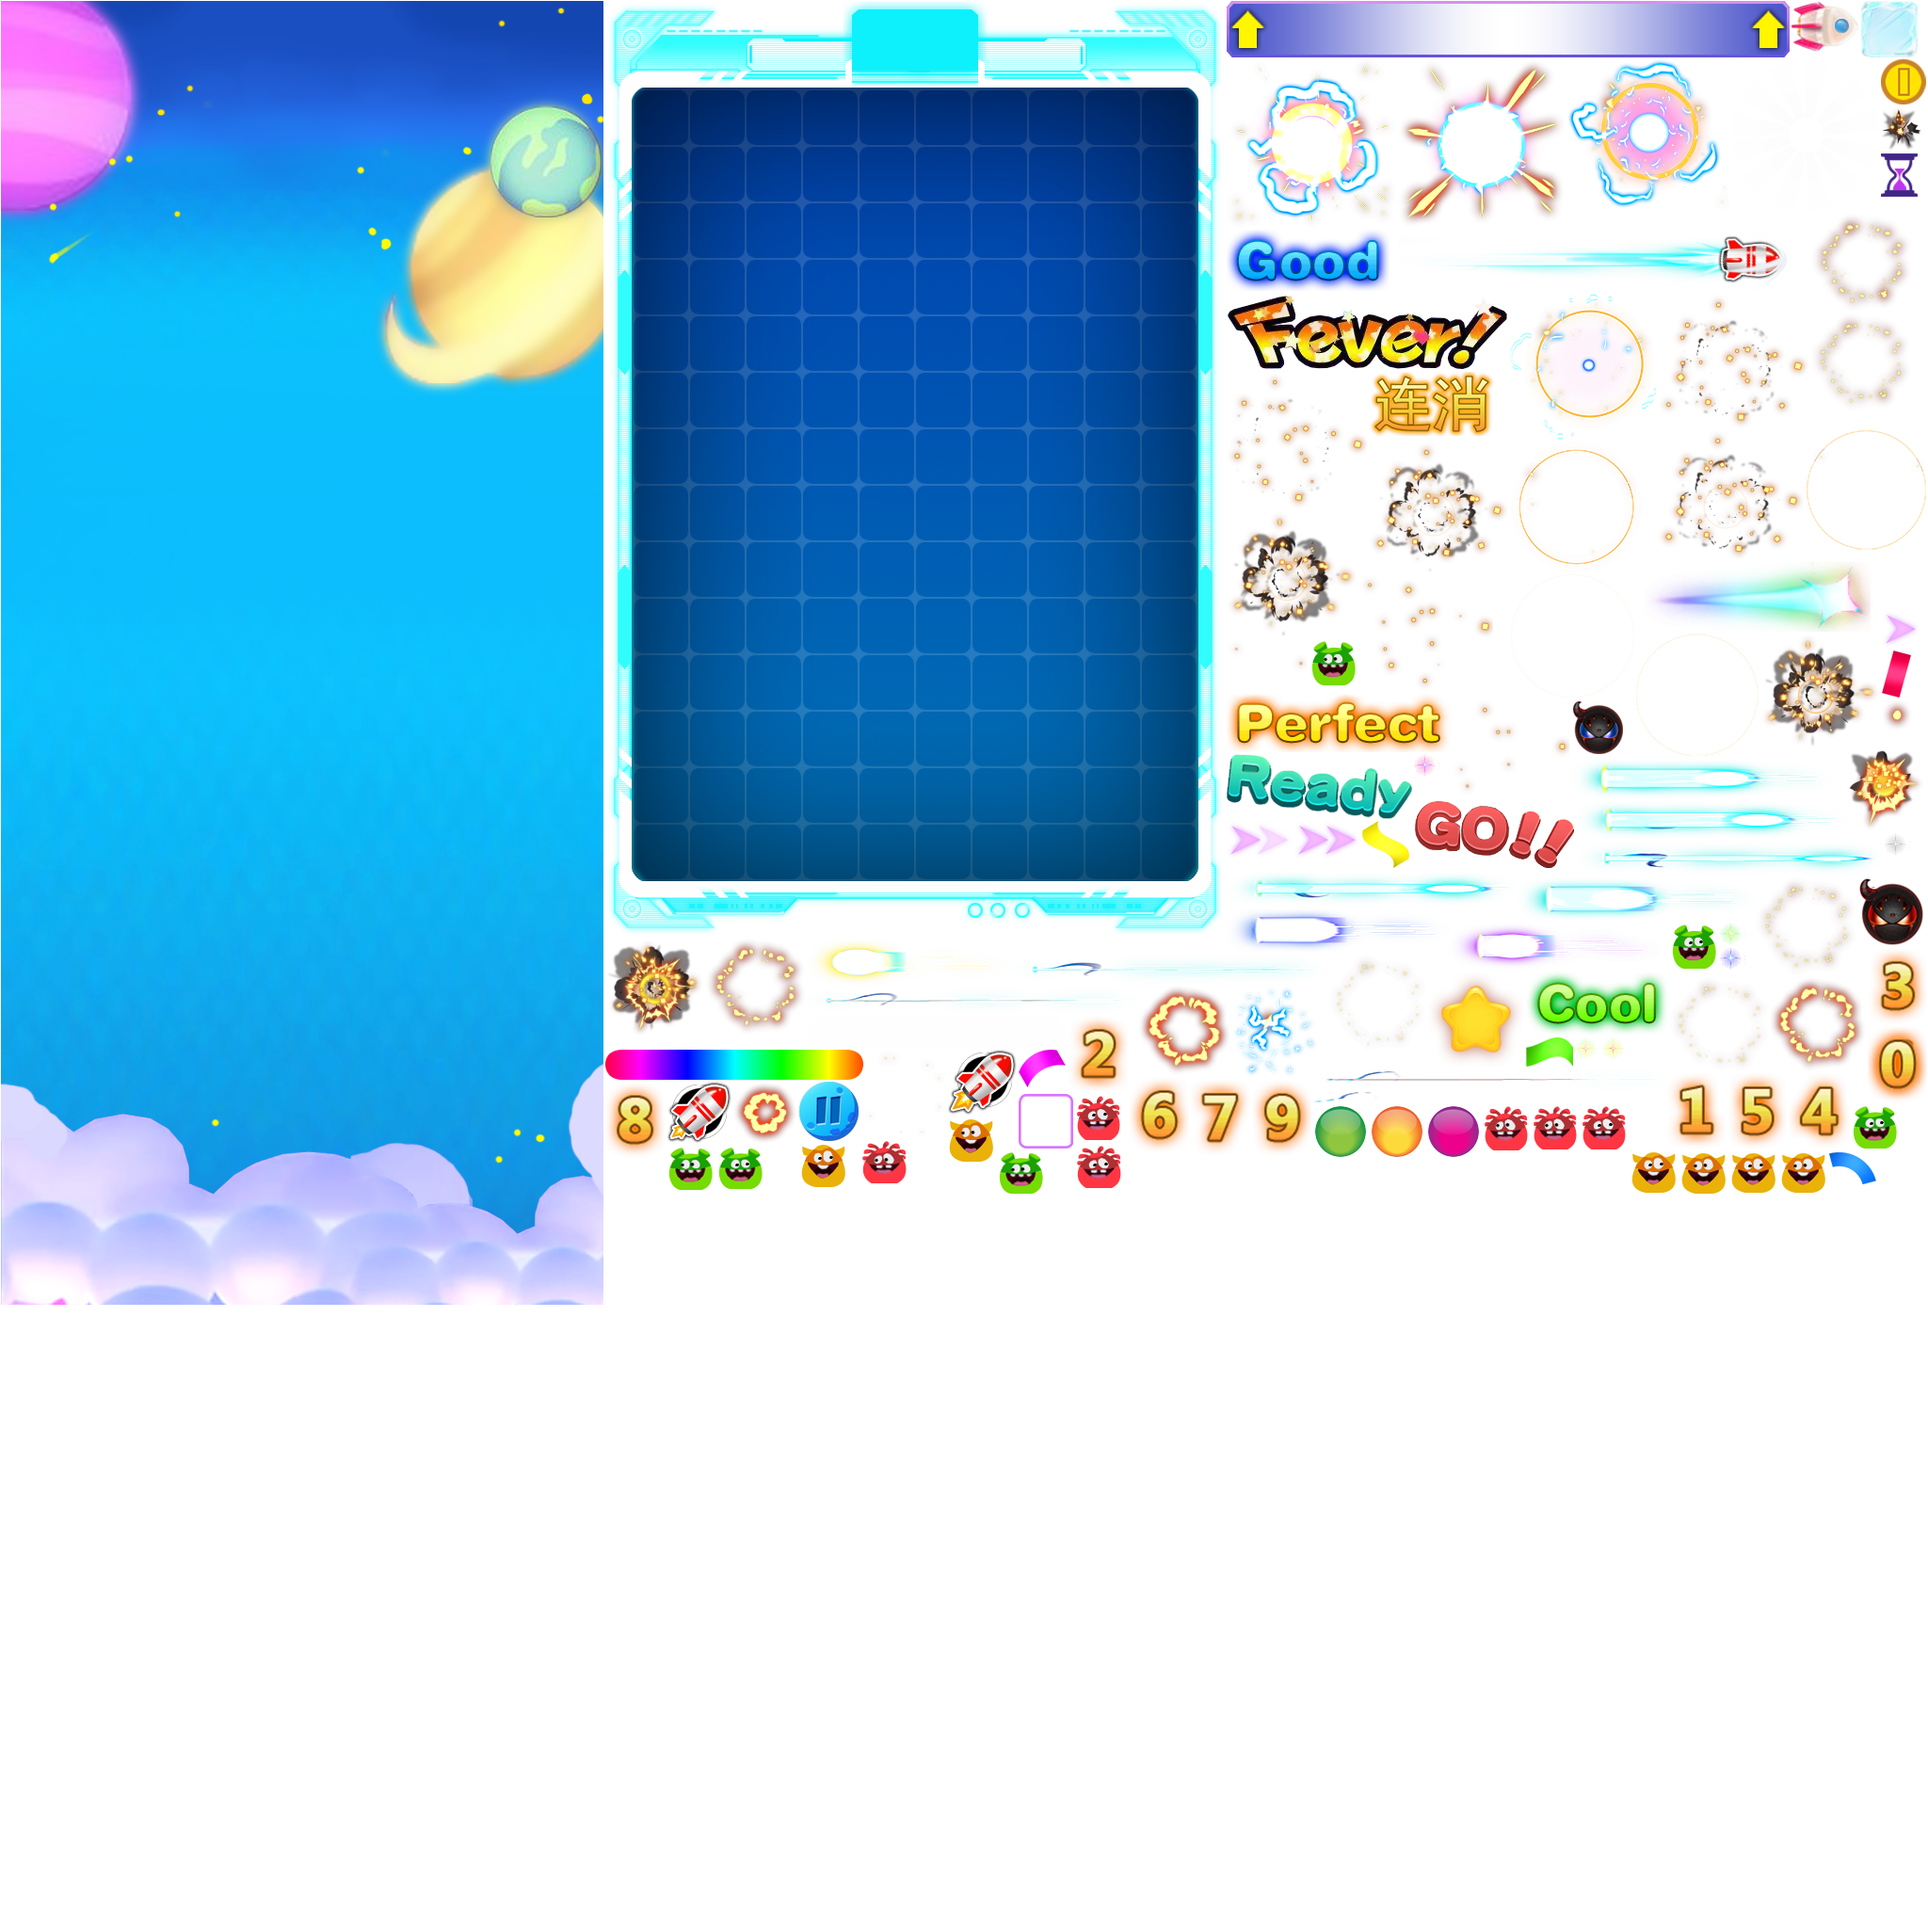
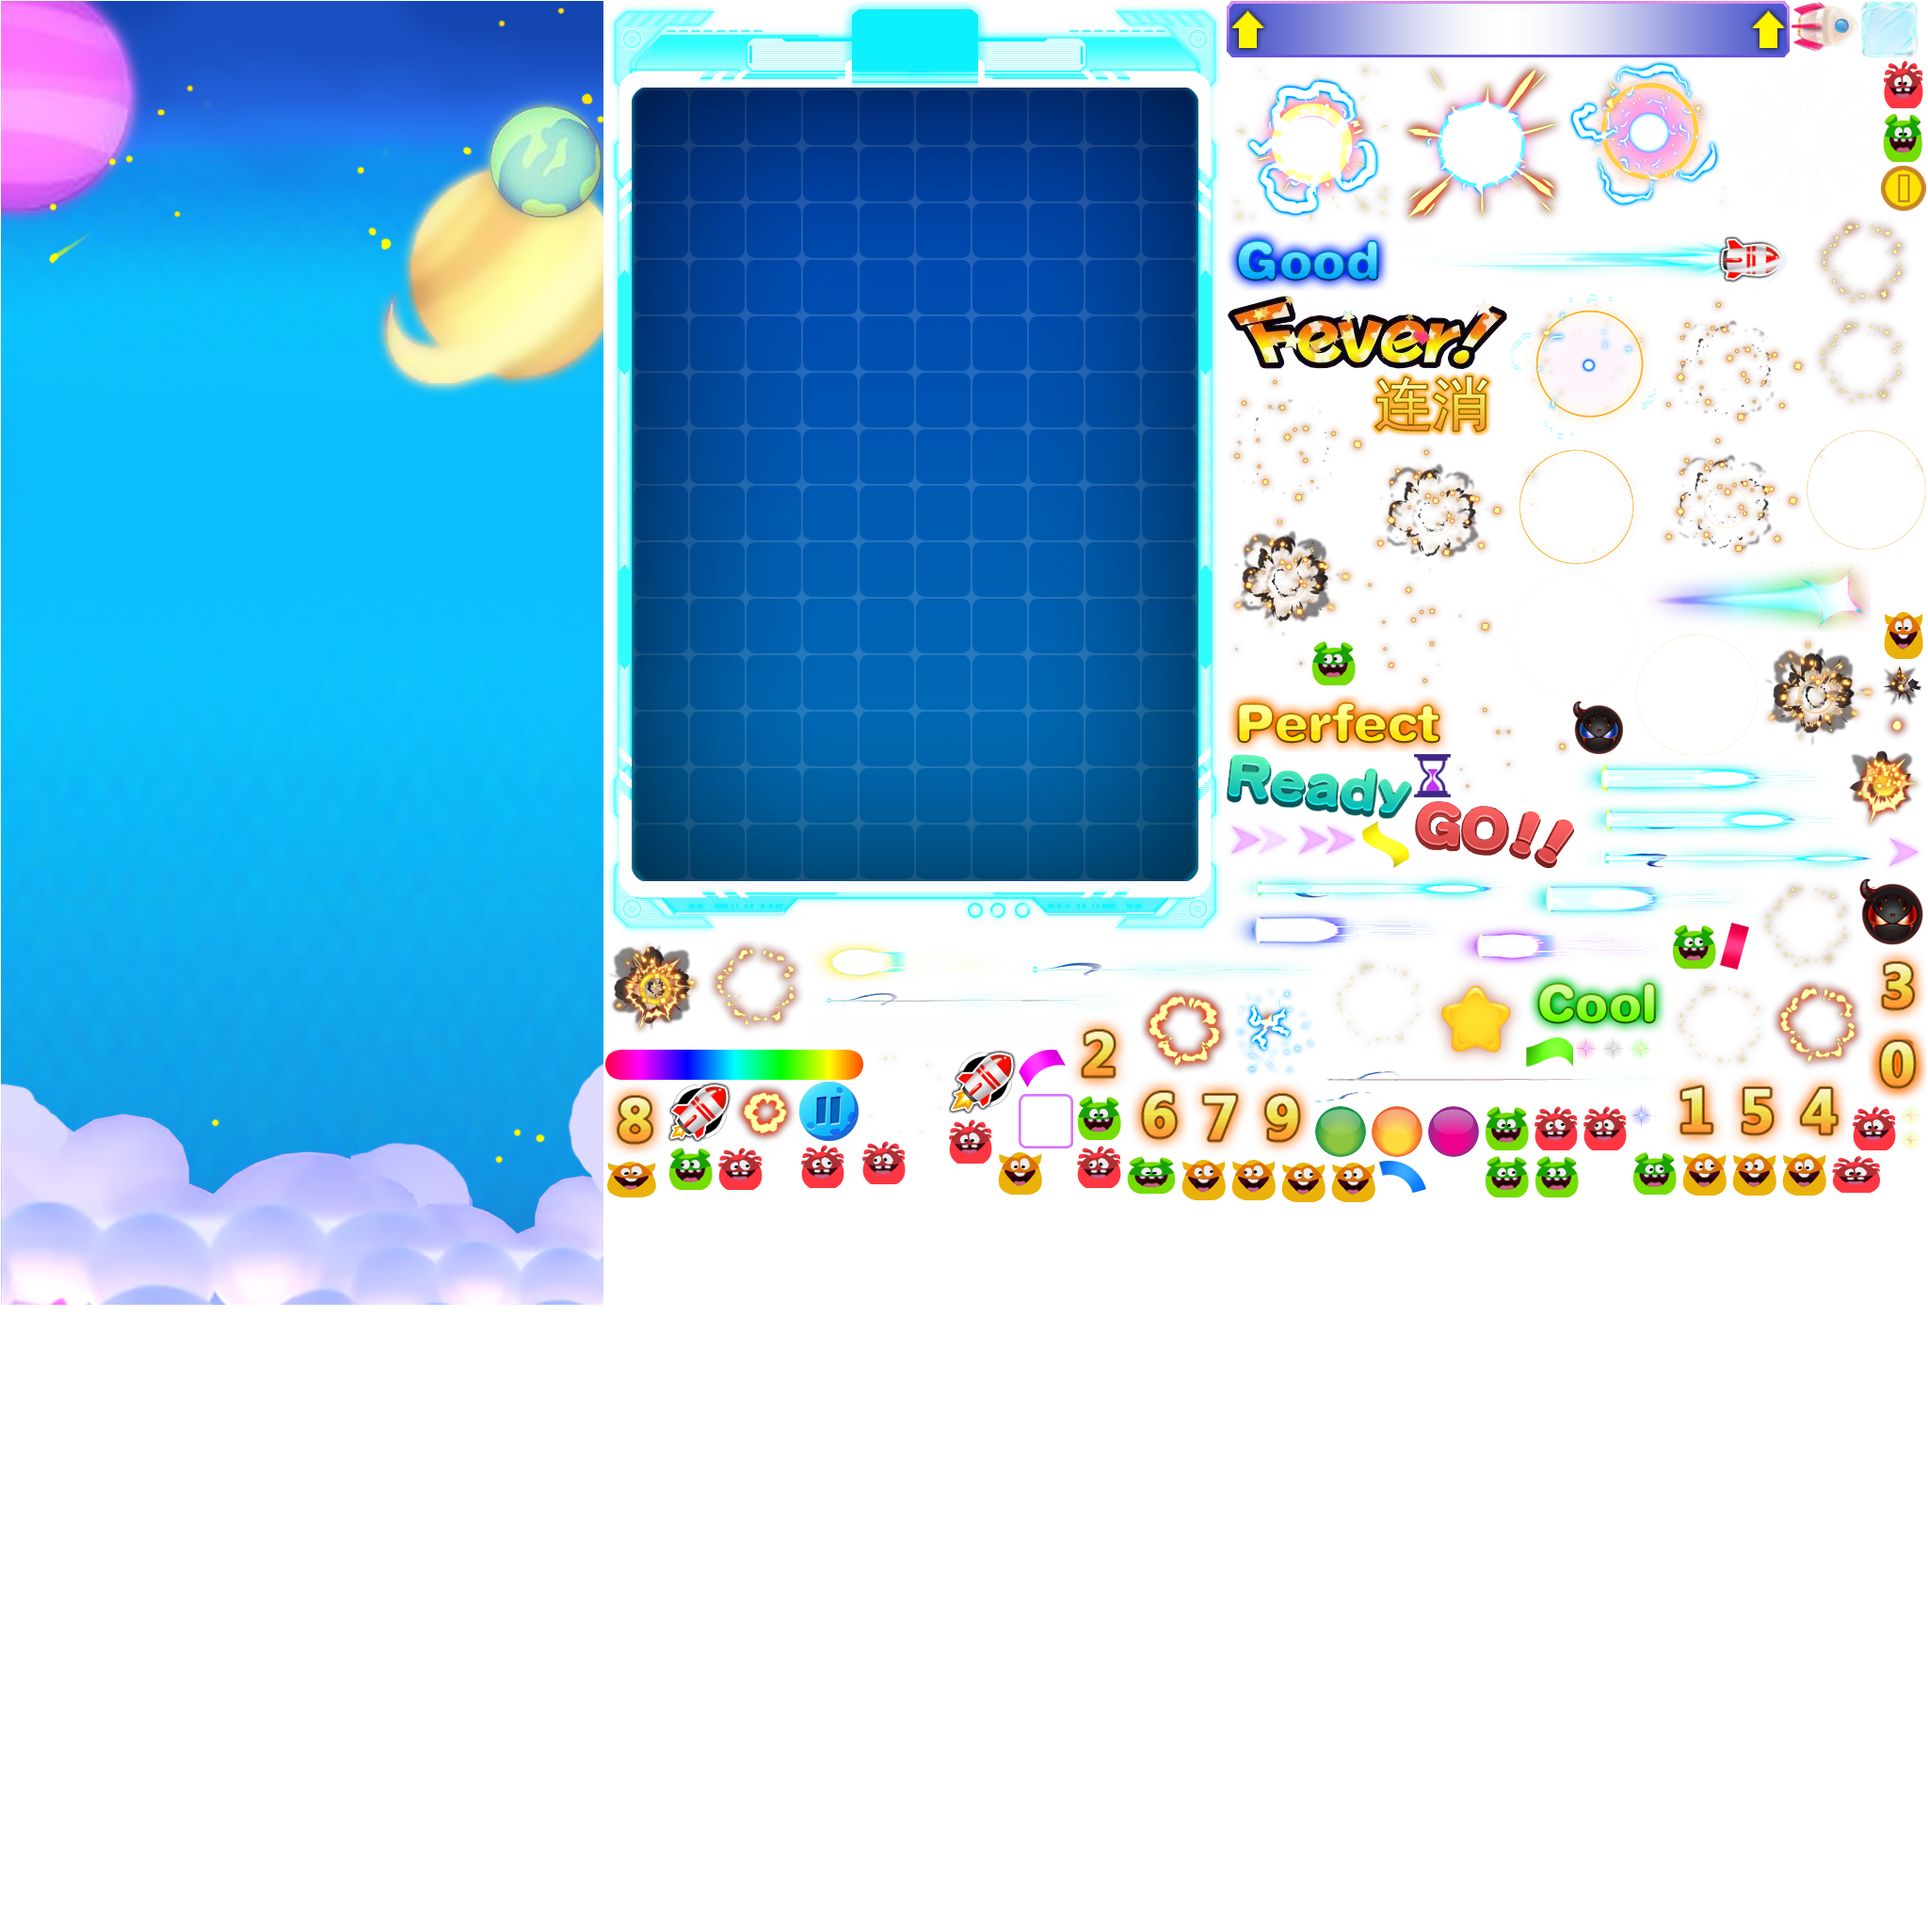
【资源】小怪fever动画

diff --git a/PDProject/src/GameElement/SceneElement/SceneVirus.ts b/PDProject/src/GameElement/SceneElement/SceneVirus.ts
@@ -1,5 +1,6 @@
 class SceneVirus extends SceneElementBase
 {
+    private animType: SceneVirusAnimType;
     public constructor(owner:GameplayElementBase)
     {
         super(owner);
@@ -11,22 +12,26 @@ class SceneVirus extends SceneElementBase
         this.elementType = SceneElementType.Virus;
         this.RefreshTexture();
         this.eliminateSound = "VirusEliminate_mp3";
+        this.animType = SceneVirusAnimType.Idle;
     }
 
     private GetAnimDelay(): number
     {
         var delay = 0;
-        switch(this.color)
+        if (this.animType == SceneVirusAnimType.Idle)
         {
-            case GameElementColor.red:
-                delay = 0;
-                break;
-            case GameElementColor.blue:
-                delay = 250;
-                break;
-            case GameElementColor.yellow:
-                delay = 500;
-                break;
+            switch(this.color)
+            {
+                case GameElementColor.red:
+                    delay = 0;
+                    break;
+                case GameElementColor.blue:
+                    delay = 250;
+                    break;
+                case GameElementColor.yellow:
+                    delay = 500;
+                    break;
+            }
         }
         return delay;
     }
@@ -47,11 +52,65 @@ class SceneVirus extends SceneElementBase
         }
         return [];
     }
+    
+
+    private GetFramesAnimFever()
+    {
+        if (this.color == GameElementColor.red)
+        {
+            return Frame_Anim_Virus_Red_Fever;
+        }
+        else if (this.color == GameElementColor.blue)
+        {
+            return Frame_Anim_Virus_Blue_Fever;
+        }
+        else if (this.color == GameElementColor.yellow)
+        {
+            return Frame_Anim_Virus_Yellow_Fever;
+        }
+        return [];
+    }
+
+    private GetCurAnimSeq()
+    {
+        if (this.animType == SceneVirusAnimType.Idle)
+        {
+            return this.GetFramesAnimIdle();
+        }
+        else if (this.animType == SceneVirusAnimType.Fever)
+        {
+            return this.GetFramesAnimFever();
+        }
+        return [];
+    }
+
+    public SetFeverState(isFever: boolean)
+    {
+        var lastAnimType = this.animType;
+        this.animType = isFever ? SceneVirusAnimType.Fever : SceneVirusAnimType.Idle;
+        if (lastAnimType != this.animType)
+        {
+            this.RefreshTexture();
+        }
+    }
+
+    private GetAnimIntervel()
+    {
+        if (this.animType == SceneVirusAnimType.Idle)
+        {
+            return 100;
+        }
+        else if (this.animType == SceneVirusAnimType.Fever)
+        {
+            return 150;
+        }
+        return 0;
+    }
 
     private CreateFramesAnim(): SyncFramesAnim
     {
         var framesAnim = new SyncFramesAnim();
-        framesAnim.Init(<egret.Bitmap>this.renderer, this.GetFramesAnimIdle(), 100, this.GetAnimDelay());
+        framesAnim.Init(<egret.Bitmap>this.renderer, this.GetCurAnimSeq(), this.GetAnimIntervel(), this.GetAnimDelay());
         return framesAnim;
     }
 
@@ -94,4 +153,10 @@ class SceneVirus extends SceneElementBase
         this.PlayBoomEffect();
         this.PlayScaling();
     }
+}
+
+enum SceneVirusAnimType
+{
+    Idle,
+    Fever,
 }

diff --git a/PDProject/src/GameElement/DataElement/Scene.ts b/PDProject/src/GameElement/DataElement/Scene.ts
@@ -48,6 +48,7 @@ class Scene extends GameModuleComponentBase
         GameMain.GetInstance().AddEventListener(SpecialEliminateRequestEvent.EventName, this.ProcessSpecialEliminateRequest, this);
         GameMain.GetInstance().AddEventListener(SceneElementAccessEvent.EventName, this.OnAccessSceneElements, this);
         GameMain.GetInstance().AddEventListener(SuperVirusEliminateEvent.EventName, this.OnSuperVirusEliminateEvent, this);
+        GameMain.GetInstance().AddEventListener(FeverEvent.EventName, this.OnFeverEvent, this);
     }
 
     public Release() 
@@ -56,6 +57,7 @@ class Scene extends GameModuleComponentBase
         GameMain.GetInstance().RemoveEventListener(SpecialEliminateRequestEvent.EventName, this.ProcessSpecialEliminateRequest, this);
         GameMain.GetInstance().RemoveEventListener(SceneElementAccessEvent.EventName, this.OnAccessSceneElements, this);
         GameMain.GetInstance().RemoveEventListener(SuperVirusEliminateEvent.EventName, this.OnSuperVirusEliminateEvent, this);
+        GameMain.GetInstance().RemoveEventListener(FeverEvent.EventName, this.OnFeverEvent, this);
     }
 
     private ProcessControlCmd(event: SceneElementControlEvent) 
@@ -215,6 +217,23 @@ class Scene extends GameModuleComponentBase
                 if (element != null)
                 {
                     element.Update(deltaTime);
+                }
+            }
+        }
+    }
+
+    private OnFeverEvent(event: FeverEvent)
+    {
+        var isFever = event.feverBegin;
+        for (var iColumn = 0; iColumn < this.sceneData.length; ++iColumn)
+        {
+            var cloumnList = this.sceneData[iColumn];
+            for (var iRow = 0; iRow < cloumnList.length; ++iRow)
+            {
+                var element = cloumnList[iRow];
+                if (element != null)
+                {
+                    element.SetFeverState(isFever);
                 }
             }
         }

diff --git a/PDProject/src/GameConfig/GameConfig.ts b/PDProject/src/GameConfig/GameConfig.ts
@@ -50,6 +50,9 @@ const Frame_Anim_Virus_Blue_Idle = ["Virus_Blue_Idle1", "Virus_Blue_Idle1", "Vir
                                              "Virus_Blue_Idle6", "Virus_Blue_Idle6", "Virus_Blue_Idle9", "Virus_Blue_Idle10"];
 const Frame_Anim_Virus_Yellow_Idle = ["Virus_Yellow_Idle1", "Virus_Yellow_Idle1", "Virus_Yellow_Idle1", "Virus_Yellow_Idle4", "Virus_Yellow_Idle5", "Virus_Yellow_Idle6",
                                              "Virus_Yellow_Idle6", "Virus_Yellow_Idle6", "Virus_Yellow_Idle9", "Virus_Yellow_Idle10"];
+const Frame_Anim_Virus_Red_Fever = ["Virus_Red_Fever1", "Virus_Red_Fever2", "Virus_Red_Fever3", "Virus_Red_Fever4"];
+const Frame_Anim_Virus_Blue_Fever = ["Virus_Blue_Fever1", "Virus_Blue_Fever2", "Virus_Blue_Fever3", "Virus_Blue_Fever4"];
+const Frame_Anim_Virus_Yellow_Fever = ["Virus_Yellow_Fever1", "Virus_Yellow_Fever2", "Virus_Yellow_Fever3", "Virus_Yellow_Fever4"];
 
 const Frame_Anim_Pill_Land_Effect = ["LuoDi_00000", "LuoDi_00001", "LuoDi_00002", "LuoDi_00003", 
                                 "LuoDi_00004", "LuoDi_00005", "LuoDi_00006", "LuoDi_00007", "LuoDi_00008", "LuoDi_00009", "LuoDi_00010"];

diff --git a/PDProject/src/GameElement/SceneElement/SceneElementBase.ts b/PDProject/src/GameElement/SceneElement/SceneElementBase.ts
@@ -343,6 +343,11 @@ abstract class SceneElementBase
         }
     }
 
+    public SetFeverState(isFever: boolean)
+    {
+
+    }
+
     public Release()
     {
         if (this.renderer != null
